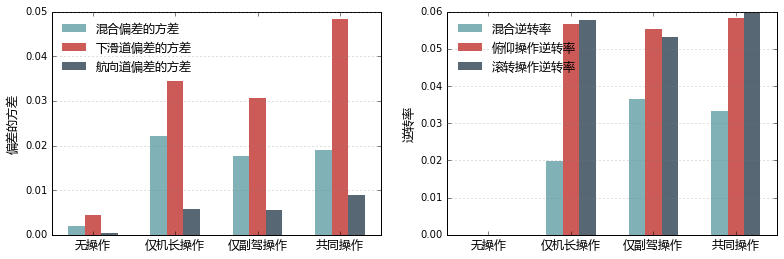
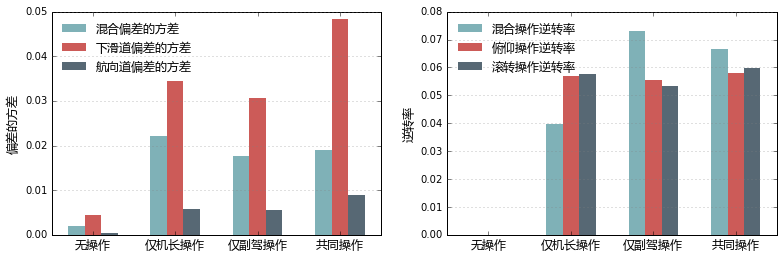
修改了混合操作逆转率的计算

diff --git a/get_table.py b/get_table.py
@@ -35,7 +35,7 @@ for i, fileName in enumerate(files):
         rollSstick = rollCaptSstick + rollFoSstick
         rollCrossRate = ((rollSstick[:-1] * rollSstick[1:]) < 0).sum() / float(rollSstick.size - 1)
 
-        crossRate = np.diff(np.sqrt(pitchSstick ** 2 + rollSstick ** 2) > 0).sum() / float(pitchSstick.size - 1) / 2.0
+        crossRate = np.diff(np.sqrt(pitchSstick ** 2 + rollSstick ** 2) > 0).sum() / float(pitchSstick.size - 1)
         var_gl = np.sqrt(df['_GLIDE'].values ** 2 + df['_LOC'].values ** 2).var()
         new = pd.DataFrame({'FILENAME':fileName, 
                                             'VAR_GL': var_gl,
